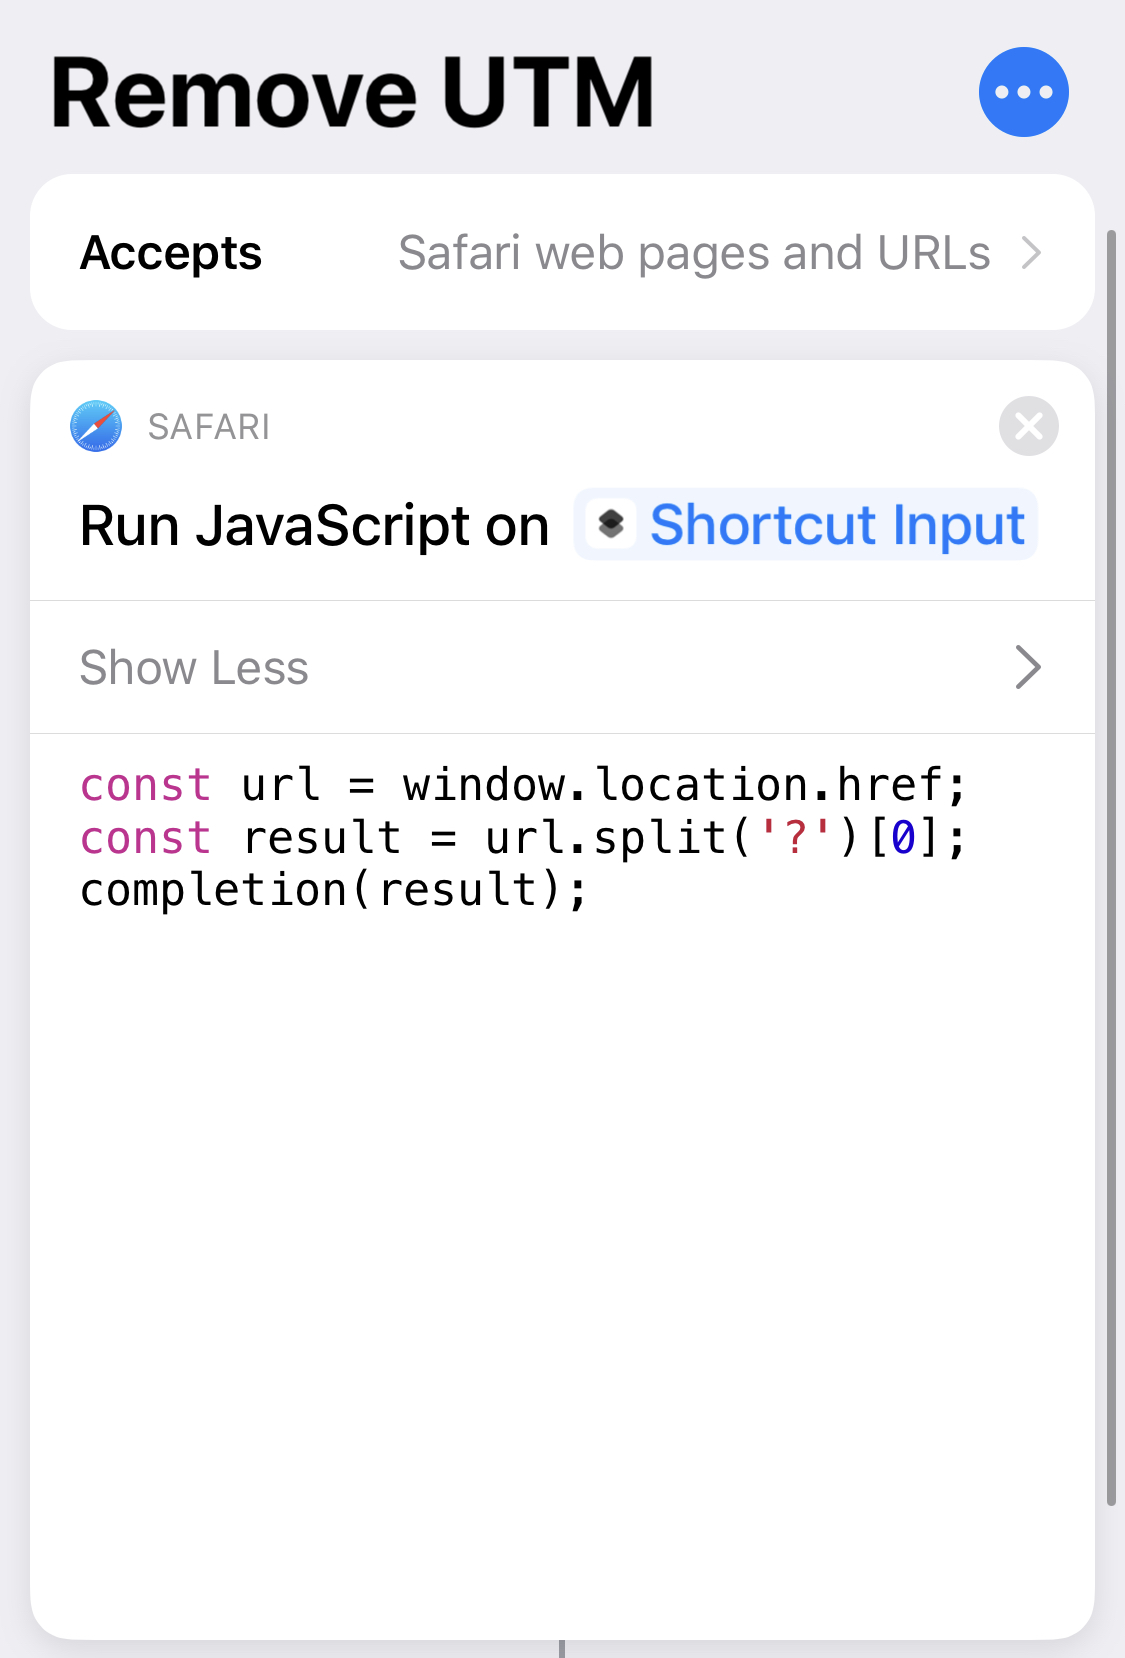
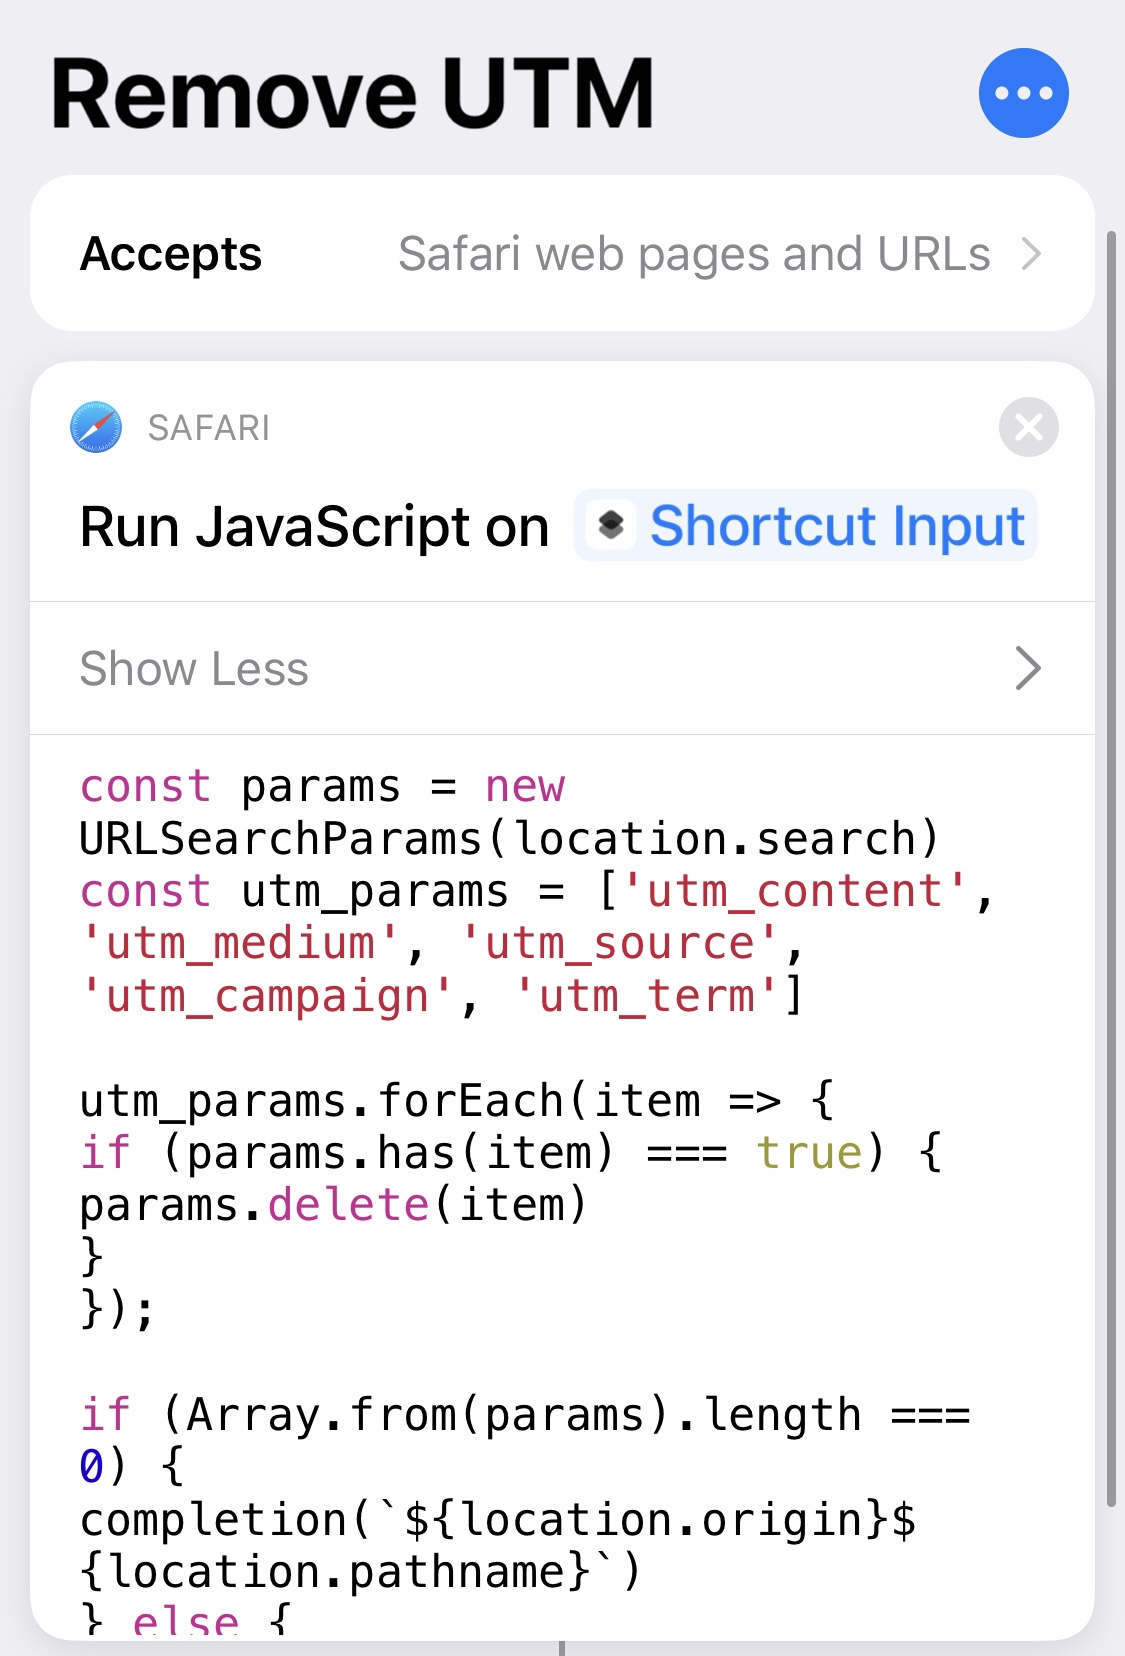
Implement a better solution

diff --git a/_posts/2020-05-08-removing-utm-parameters-with-apples-shortcuts.md b/_posts/2020-05-08-removing-utm-parameters-with-apples-shortcuts.md
@@ -26,12 +26,23 @@ Since the URL polluted with UTM parameters looks like this:
 
 https://www.example.com/page?<mark>utm_content=buffercf3b2&utm_medium=social&utm_source=facebook.com&utm_campaign=buffer</mark>
 
-I came up with a naive solution in JavaScript that would drop all the query parameters from the URL:
+I came up with a solution in JavaScript that would remove all the query parameters associated with the UTM from the URL:
 
 ```javascript
-const url = window.location.href;
-const result = url.split('?')[0];
-completion(result);
+const params = new URLSearchParams(location.search)
+const utm_params = ['utm_content', 'utm_medium', 'utm_source', 'utm_campaign', 'utm_term']
+
+utm_params.forEach(item => {
+	if (params.has(item) === true) {
+		params.delete(item)
+	}
+});
+
+if (Array.from(params).length === 0) {
+	completion(`${location.origin}${location.pathname}`)
+} else {
+	completion(`${location.origin}${location.pathname}?${params}`)
+}
 ```
 
 Complete shortcut:
@@ -53,7 +64,7 @@ Usage workflow is following:
 3. Tap on **Remove UTM** button
 4. Copy or share the sanitised URL
 
-You can download the shortcut [here](https://www.icloud.com/shortcuts/97544ab172b54c9bb2619c5dd19c8b3f). As a prerequisite you need to enable setting for [Untrusted Shortcuts](https://support.apple.com/en-hk/HT210628).
+You can download the shortcut [here](https://www.icloud.com/shortcuts/bbc6a213d8804e5d87b7f89674940f7f). As a prerequisite you need to enable setting for [Untrusted Shortcuts](https://support.apple.com/en-hk/HT210628).
 
 Do you use Shortcuts app? Which shortcuts are your favourite ones? Do you know any other tricks? Let me know on [Twitter](https://twitter.com/lukabratos/status/1258819152095195141)!
 
